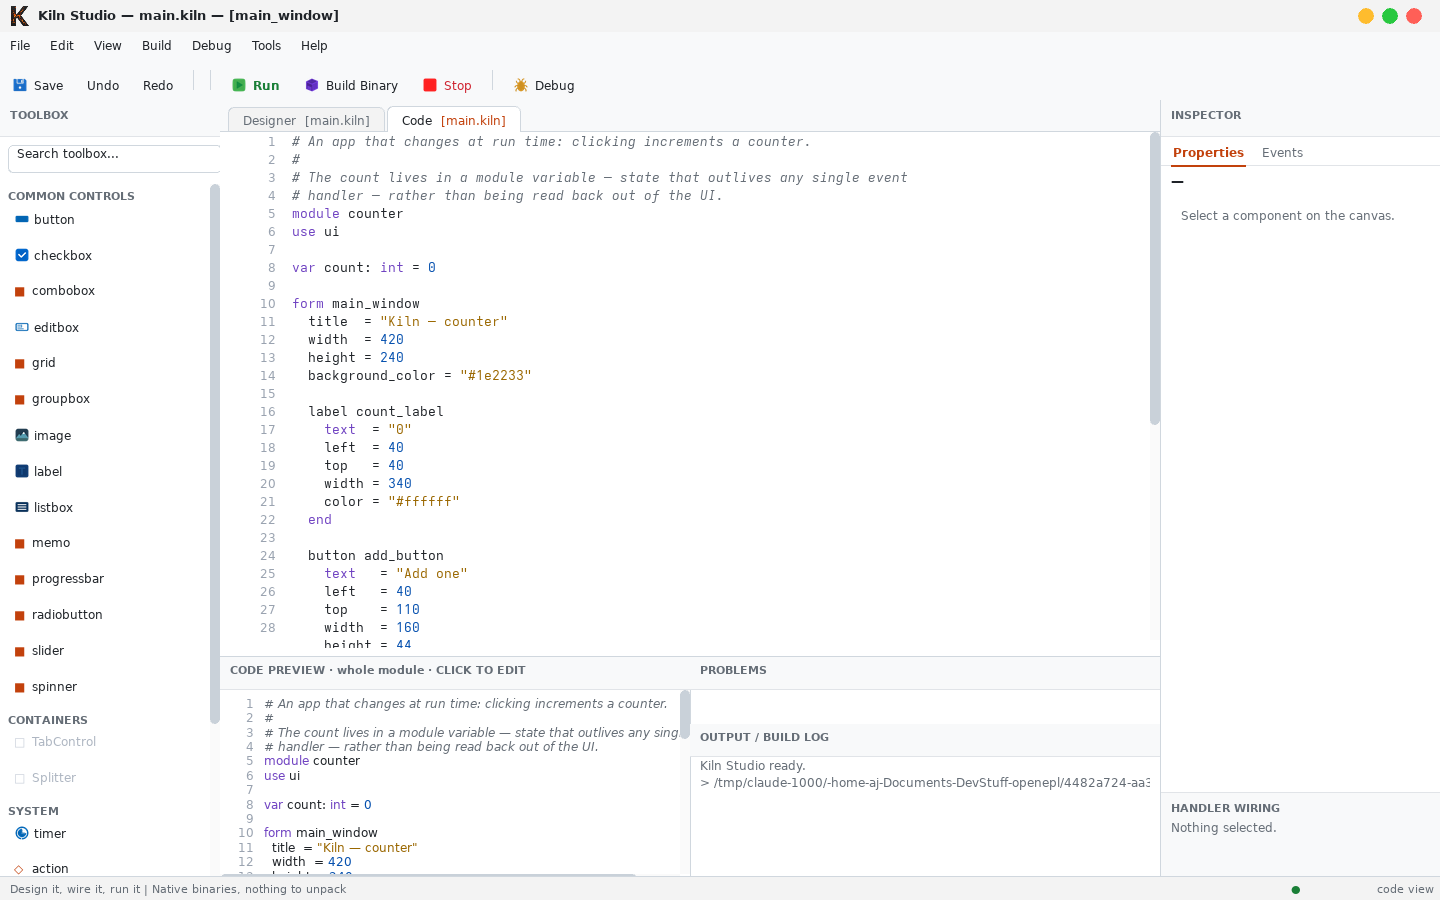
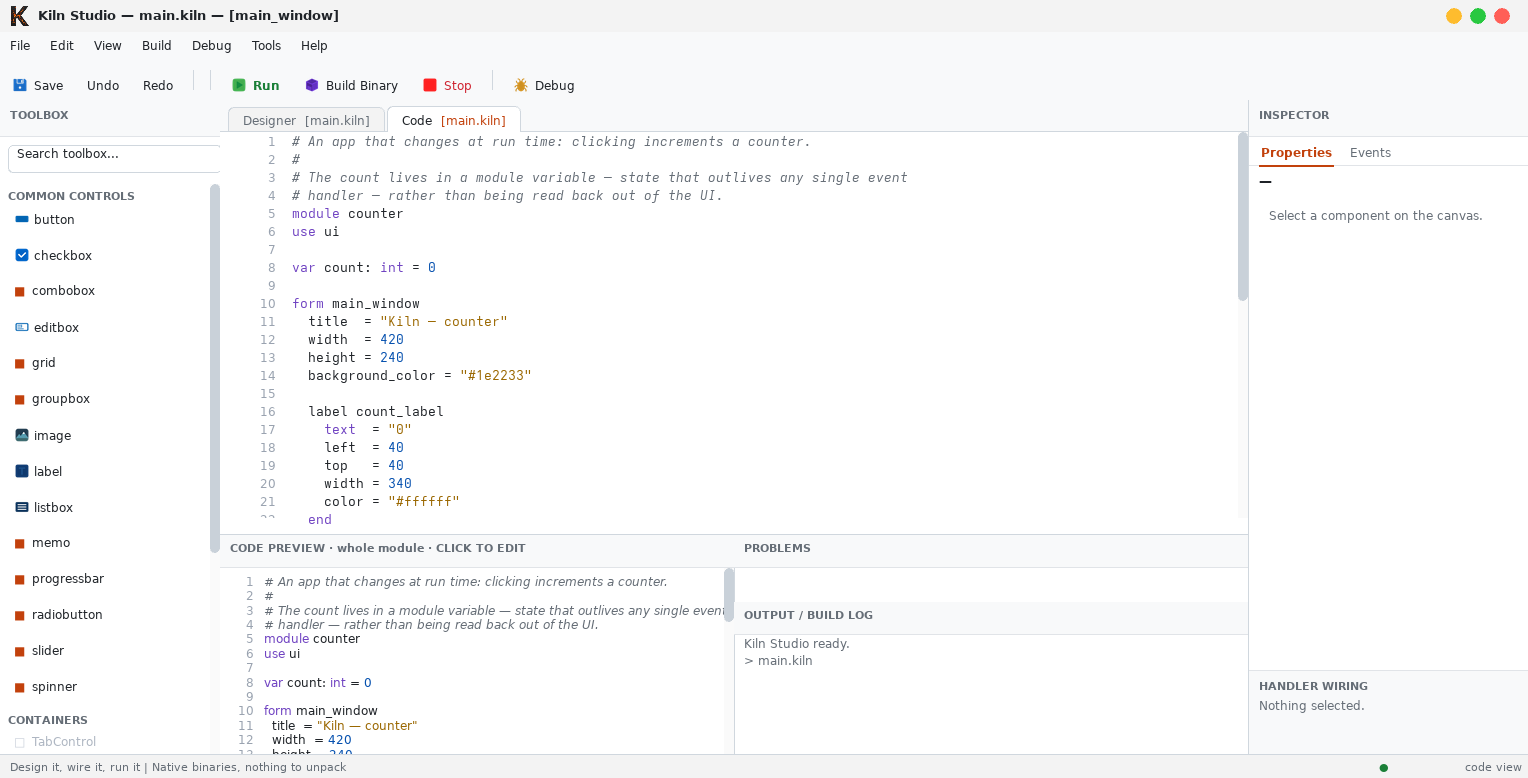
Retake the screenshots, and make retaking them a command
The four pictures on the README, the handbook and the landing page were
taken by hand last session and had gone stale: the build log in the designer
shot still showed a path under `DevStuff-openepl`, from before the rename.
Nothing checks that a picture of the IDE still looks like the IDE, so they
go stale silently and stay that way.

`tools/shots.sh` takes all four headlessly and writes them where the pages
expect. The project it opens is a *copy* of `examples/counter.kiln` in a
temporary directory, because Studio saves on exit and opening a tracked
example lands its reformatting in the next commit. It runs with its own
`XDG_CONFIG_HOME`, so whatever theme or remembered window size the developer
running it has set cannot leak into a published shot.

Size is whatever the offscreen driver gives, deliberately. The first run
asked for 1440x900 — the size the old shots were — and got four unusable
frames with a black band where the title bar should be: the offscreen
display here is 1528x778, and the strip outside it is never painted.
`SHOT_SIZE` still exists, with that written next to it.

**And a crash it found.** Studio started with no project and
`KILN_DESIGNER_WELCOME_DUMP` set wrote its frame and then segfaulted in
`Rml::EventDispatcher::DetachAllEvents`, from `Rml::Shutdown`. That exit
from `run_welcome` was the one that did not close the welcome document
first, and the document holds a listener that is a local of that function —
[…]

diff --git a/designer/test_studio.cpp b/designer/test_studio.cpp
@@ -309,9 +309,9 @@ static void test_sessions(const std::string& kiln, const std::string& designer) 
     {
         const std::string out = session(designer, kiln, "examples/tcpchat.kiln", "rclick:link;menu");
         check("menu: a tray component lists its events",
-              has(out, "menu: open rows=7\n  link (tcpclient)\n  Events\n  connect \xe2\x86\x92 on_connect\n"
+              has(out, "menu: open rows=8\n  link (tcpclient)\n  Events\n  connect \xe2\x86\x92 on_connect\n"
                        "  disconnect \xe2\x86\x92 on_disconnect\n  receive \xe2\x86\x92 on_receive\n"
-                       "  error \xe2\x86\x92 on_error\n  Delete\n"));
+                       "  receive_bytes\n  error \xe2\x86\x92 on_error\n  Delete\n"));
     }
 
     // Hover, definition and references through the language server.

diff --git a/designer/main.cpp b/designer/main.cpp
@@ -7662,6 +7662,14 @@ std::string run_welcome(const std::string& family) {
         dump_to(shot);
         std::printf("welcomedump: %s\n", shot);
         std::fflush(stdout);
+        // Closed before returning, like every other exit from here. `pick` is
+        // a local of this function: leaving the document alive leaves it
+        // holding a listener whose object is gone the moment we return, and
+        // `Rml::Shutdown()` walks that list — the crash was a segfault in
+        // DetachAllEvents at the very end of a run that had otherwise done
+        // everything right, which is the kind that gets blamed on the dump.
+        doc->Close();
+        g.context->Update();
         return "";
     }
 
